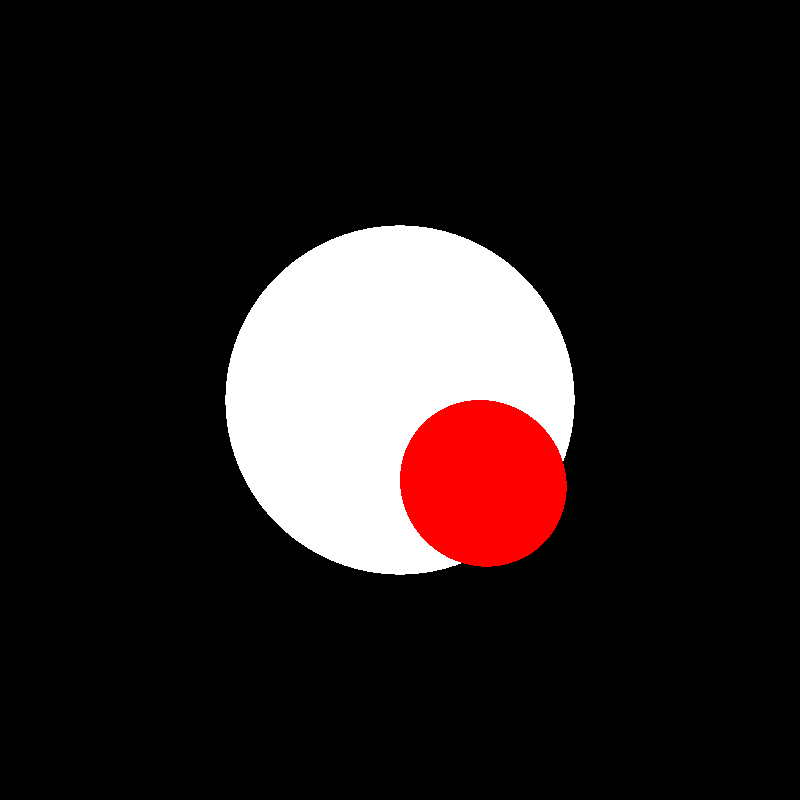
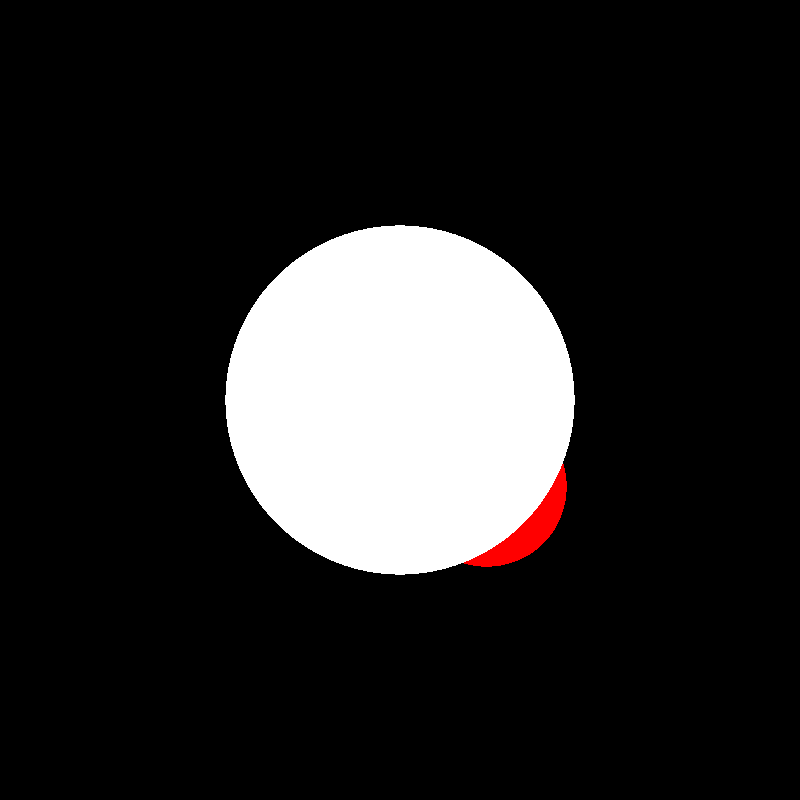
Los planos todavia no andan perfecto

Changed region(s): [[0.5, 0.5, 0.7188, 0.7188]]

diff --git a/src/objects.rs b/src/objects.rs
@@ -36,9 +36,10 @@ impl Ray{
     }
 }
 pub struct Intersection{
-    pub color_at_intersection: Color,
-    pub reflected_ray: Ray,
-    pub alpha_channel: u8,
+    color_at_intersection: Color,
+    reflected_ray: Ray,
+    alpha_channel: u8,
+    distance_to_intersection: f64,
 }
 impl Intersection{
     #[inline]
@@ -47,6 +48,7 @@ impl Intersection{
             color_at_intersection: Color::new(),
             reflected_ray: Ray::new(Point3D::new_zeros(), Vector3D::new_zeros()),
             alpha_channel: 255, //opaco
+            distance_to_intersection: 0.0,
         }
     }
     #[inline]
@@ -54,12 +56,29 @@ impl Intersection{
         Rgba::from_channels(self.color_at_intersection.red,self.color_at_intersection.green,self.color_at_intersection.blue,self.alpha_channel)
     }
     #[inline]
-    pub fn new_values(color_at_intersection: Color,reflected_ray: Ray,alpha_channel: u8)->Self{
+    pub fn new_values(color_at_intersection: Color,reflected_ray: Ray,alpha_channel: u8,distance_to_intersection:f64)->Self{
         Intersection{
             color_at_intersection,
             reflected_ray,
             alpha_channel,
+            distance_to_intersection,
         }
+    }
+    #[inline]
+    pub fn color(&self)->&Color{
+        &self.color_at_intersection
+    }
+    #[inline]
+    pub fn distance(&self)->f64{
+        self.distance_to_intersection
+    }
+    #[inline]
+    pub fn reflexion(&self)->&Ray{
+        &self.reflected_ray
+    }
+    #[inline]
+    pub fn alpha_channel(&self)->u8{
+        self.alpha_channel
     }
 }
 pub trait SceneObject{
@@ -82,6 +101,8 @@ pub mod objects{
         Ray,
         Intersection,
     };
+
+
     pub struct Sphere{
         pub center: Point3D,
         pub radio: f64,
@@ -89,9 +110,12 @@ pub mod objects{
     }
     impl SceneObject for Sphere{
         fn intersects(&self,ray: &Ray)->Option<Intersection>{
+            let alpha = 255;
             let vec_posicion = Vector3D::new_from_point(self.center.clone());
-            if self.radio >= f64::sin(vec_posicion.angle_between(&ray.direccion))*vec_posicion.module(){
-                Some(Intersection::new_values(self.color.clone(),Ray::new_null(), 255))
+            let vec_posicion_module = vec_posicion.module();
+            let cateto = f64::sin(vec_posicion.angle_between(&ray.direccion))*vec_posicion_module;
+            if self.radio >= cateto{
+                Some(Intersection::new_values(self.color.clone(),Ray::new_null(), alpha,f64::sqrt(vec_posicion_module.powi(2)+cateto.powi(2))))
             }else{
                 None
             }
@@ -110,6 +134,35 @@ pub mod objects{
                 center,
                 radio,
                 color,
+            }
+        }
+    }
+
+    pub struct Plane{
+        pub punto: Point3D,
+        pub normal: Vector3D,
+        pub color: Color,
+    }
+    impl Plane{
+        pub fn new(punto: Point3D,normal: Vector3D, color: Color)->Plane{
+            Plane{
+                punto,
+                normal,
+                color,
+            }
+        }
+    }
+    impl SceneObject for Plane{
+        fn intersects(&self,ray: &Ray)->Option<Intersection>{
+            if ray.direccion.dot_product(&self.normal) < 1e-6{ //es epsilon
+                None
+            }else{
+                let lambda = (self.normal.dot_product(&self.punto)-self.normal.dot_product(&ray.punto))/self.normal.dot_product(&ray.direccion);
+                let interseccion_punto = lambda * ray.direccion.clone() + ray.punto.clone().into_vector();
+                if interseccion_punto.z() <= 0.0{
+                    return None
+                }
+                Some(Intersection::new_values(self.color.clone(), Ray::new_null(), 255, interseccion_punto.module()))
             }
         }
     }

diff --git a/src/lib.rs b/src/lib.rs
@@ -31,10 +31,16 @@ impl Scene{
         for x in 0..self.widht{
             for y in 0..self.height{
                 let rayo_actual = Ray::new_camera_ray(x,y,&self);
+                let mut minimum_distance_to_intersection = (0.0,true);
                 for objeto in &self.objects_list{
-                    let interseccion = objeto.intersects(&rayo_actual); //que pasa si dos lo intersectan en planos distintos?
+                    let interseccion = objeto.intersects(&rayo_actual);
                     if let Some(interseccion) = interseccion{
-                        imagen.put_pixel(x, y, interseccion.rgba());
+                        if interseccion.distance()<minimum_distance_to_intersection.0 || minimum_distance_to_intersection.1 {
+                            imagen.put_pixel(x, y, interseccion.rgba());
+                            minimum_distance_to_intersection.0 = interseccion.distance();
+                            minimum_distance_to_intersection.1 = false;
+                        }
+                        
                     }
                 }
             }
@@ -53,7 +59,7 @@ impl Scene{
 mod tests{
     use super::*;
     use objects::{
-        Ray,
+        objects::*
     };
     use maths::point::Point3D;
     use maths::vector3::Vector3D;
@@ -63,11 +69,16 @@ mod tests{
         let mut escena = Scene::new();
         escena.widht = 800;
         escena.height = 800;
-        escena.objects_list.push(Box::new(objects::objects::Sphere::new()));
-        escena.objects_list.push(Box::new(objects::objects::Sphere::new_with_coordinates(
+        escena.objects_list.push(Box::new(Sphere::new()));
+        escena.objects_list.push(Box::new(Sphere::new_with_coordinates(
             Point3D::new(2.0, -2.0, -10.0),
             2.0,
             Color::new_rgb(255,0,0)
+        )));
+        escena.objects_list.push(Box::new(Plane::new(
+            Point3D::new(0.0,1.0,0.0),
+            Vector3D::new(0.0, 1.0, 0.0), 
+            Color::new_rgb(0,255,128)
         )));
         escena.render();
         escena.unwrap_image().save("esfera_centrada.png").unwrap();

diff --git a/src/maths/vector3.rs b/src/maths/vector3.rs
@@ -4,15 +4,6 @@ pub trait Vector3{
     fn x(&self)->f64;
     fn y(&self)->f64;
     fn z(&self)->f64;
-    /*fn x(&self)->f64{
-        *self.x_borrow()
-    }
-    fn y(&self)->f64{
-        *self.y_borrow()
-    }
-    fn z(&self)->f64{
-        *self.z_borrow()
-    }*/
     #[inline]
     fn dot_product<T: Vector3>(&self,vector: &T)->f64{
         self.x() * vector.x() + self.y() * vector.y() + self.z() * vector.z()
@@ -66,12 +57,12 @@ pub trait Vector3{
         self.addition(&vector.escalar_product(-1.0))
     }
 }
-#[derive(PartialEq,Debug)]
+#[derive(PartialEq,Debug,Clone)]
 ///A structure that represents a 3D vector and implements Vector3, its recomended to use it, it implements standard ops and PartialEq (consider that it is meaningless to consider one gretear than the other)
 pub struct Vector3D{
-    pub x: f64,
-    pub y: f64,
-    pub z: f64,
+    x: f64,
+    y: f64,
+    z: f64,
 }
 impl ops::Add for Vector3D{
     type Output = Vector3D;
@@ -104,6 +95,7 @@ impl ops::Mul<Vector3D> for Vector3D{
     }
 }
 impl Vector3D{
+    #[inline]
     pub fn new_zeros()->Self{
         Vector3D{
             x: 0.0,
@@ -111,6 +103,7 @@ impl Vector3D{
             z: 0.0,
         }
     }
+    #[inline]
     pub fn new(x: f64, y: f64,z: f64)->Self{
         Vector3D{
             x,
@@ -118,6 +111,7 @@ impl Vector3D{
             z,
         }
     }
+    #[inline]
     pub fn new_from_point(point: crate::maths::point::Point3D)->Vector3D{
         Vector3D::new(point.x, point.y,point.z)
     }

diff --git a/src/maths/point.rs b/src/maths/point.rs
@@ -1,4 +1,5 @@
 use std::ops;
+use super::vector3::{Vector3,Vector3D};
 #[derive(Clone)]
 pub struct Point3D{
     pub x: f64,
@@ -18,6 +19,9 @@ impl Point3D{
             x:0.0,y:0.0,z:0.0
         }
     }
+    pub fn into_vector(self)->Vector3D{
+        Vector3D::new_from_point(self)
+    }
 }
 impl ops::Sub for Point3D{
     type Output = Point3D;
@@ -27,5 +31,16 @@ impl ops::Sub for Point3D{
             y: self.y -other.y,
             z: self.z - other.z,
         }
+    }
+}
+impl Vector3 for Point3D{
+    fn x(&self)->f64{
+        self.x
+    }
+    fn y(&self)->f64{
+        self.y
+    }
+    fn z(&self)->f64{
+        self.z
     }
 }
